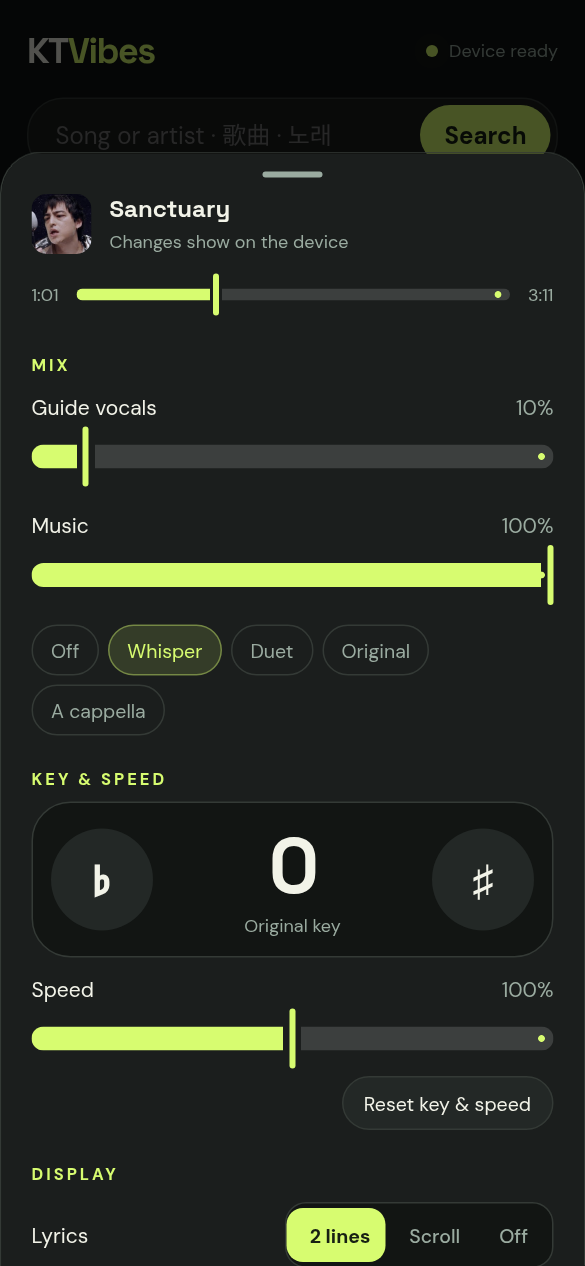
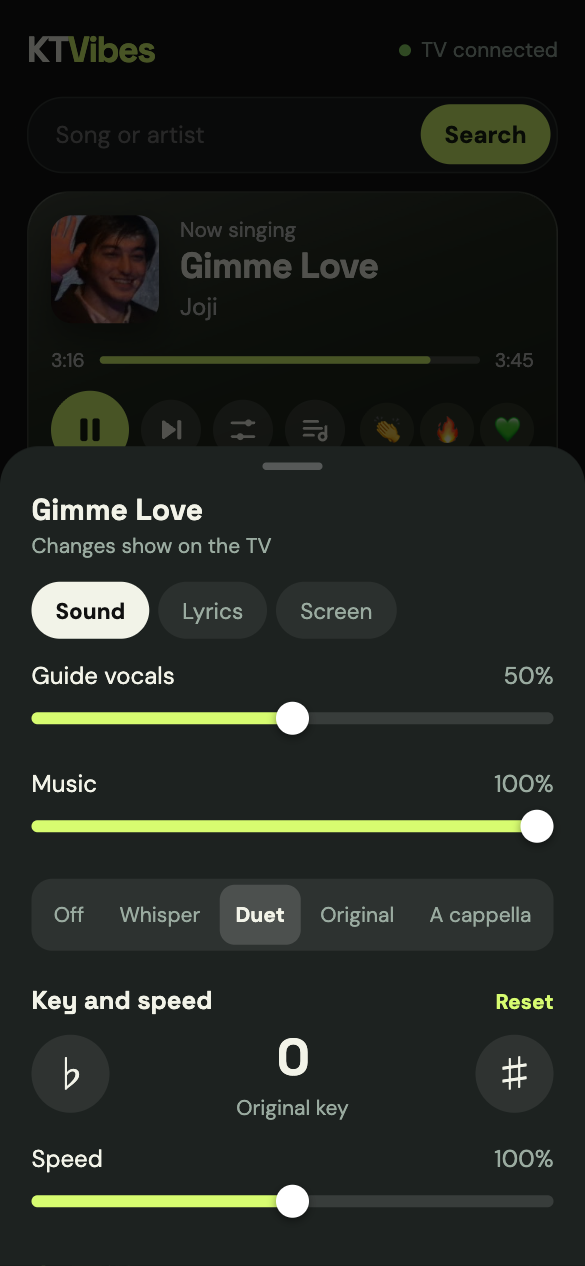
Changelog and screenshots for the Default redesign

diff --git a/CHANGELOG.md b/CHANGELOG.md
@@ -16,6 +16,14 @@ Most of this release is the work of [Jeff Shih](https://github.com/JeffShih-wiwy
 - `KTVIBES_OPEN_BROWSER=1` opens the TV page in the default browser when KTVibes starts. *(Jeff Shih)*
 - The tests run on every push and pull request. *(Jeff Shih)*
 - [CONTRIBUTING.md](CONTRIBUTING.md): how to send a change.
+- A redesigned Default look for the remote and the TV. Classic is unchanged and still in Settings.
+  - Home lists the songs ready to sing; See all opens the library, sorted by Recent or A–Z, with a filter and a letter rail.
+  - Tapping + shows where the song landed ("Added at #3") with Undo.
+  - Now singing has its own card with play, skip, settings, lyrics and cheers. Queue rows open a menu (Play next, lyrics, Remove); hold and drag to reorder. Long queues fold after five.
+  - Settings split into Sound, Lyrics and Screen tabs, and sheets close with a swipe down.
+  - Live lyrics on the phone, filled word by word in step with the TV. Tap a word to jump the song there. ••• fixes wrong lyrics or timing, and a song without lyrics offers Find lyrics.
+  - On a tablet the library and the player sit side by side; from 1000px wide the settings stay open as a column.
+  - The TV shows a small Queue card with the QR code and a control bar that tucks away, with its buttons, after 3 seconds.
 
 ### Changed
 - When LRCLIB is busy or limiting requests, the lyrics picker says how long to wait and its Search button counts down, instead of reporting a failed lookup or a missing version. The automatic lookup stops asking as soon as LRCLIB says to slow down. *(Jeff Shih)*
